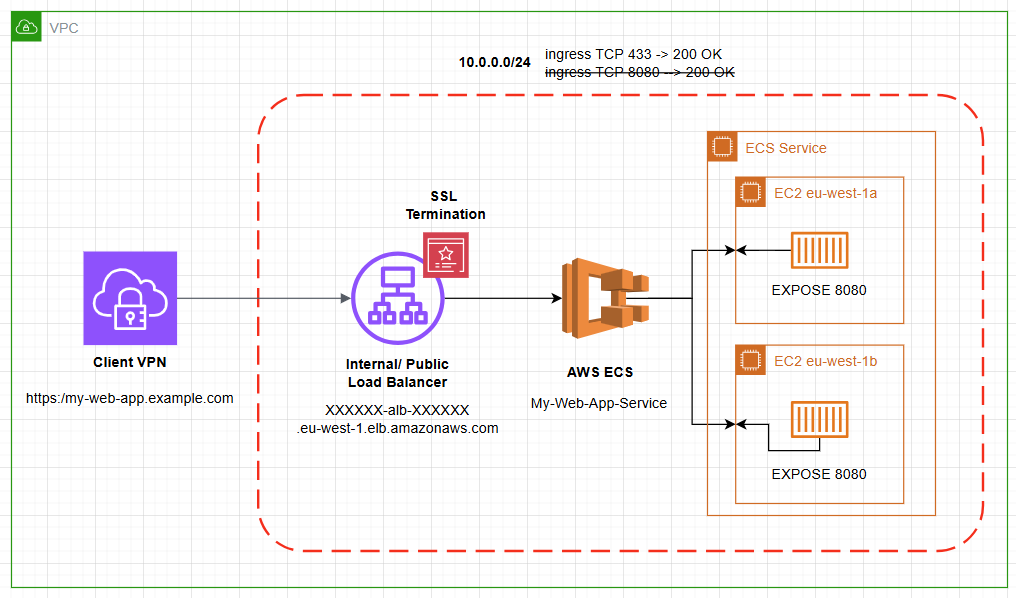
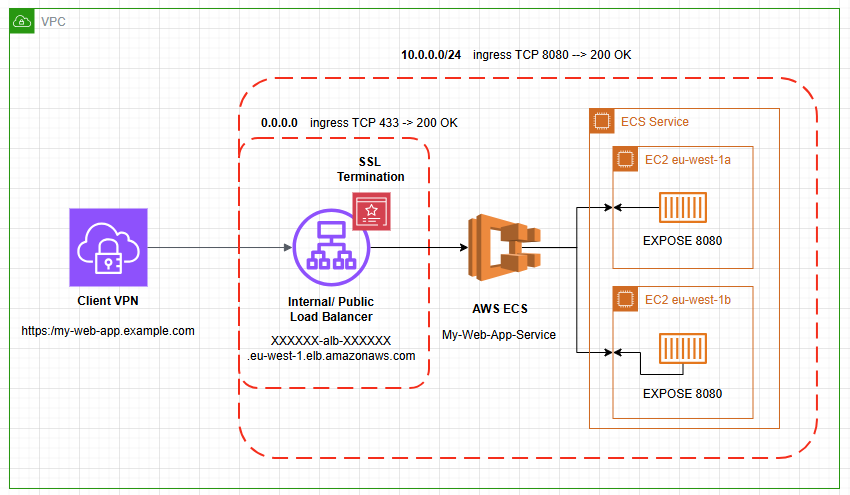
update diagram & READMEs

diff --git a/README.md b/README.md
@@ -15,6 +15,7 @@ The module supports both public facing and private facing deployments of the ALB
 - **CI/CD Integration**: Integrate with GitHub Actions to automate the deployment process, including building Docker images and deploying them to different environments.
 - **AWS Services**: Leverage AWS services like ECS, EC2, ECR and ELB to host and manage your web application.
 - **Docker Support**: Build and deploy Docker images for your web application.
+- **Health Checker**: ECS does a basic health check on /health endpoint to determine if the containers are actually running.
 
 ## Diagram
 

diff --git a/examples/dockerized-web-app-public-deployment/README.md b/examples/dockerized-web-app-public-deployment/README.md
@@ -23,3 +23,5 @@ module "dockerized-web-app" {
   docker_image_tag    = "latest"
 }
 ```
+
+Your ALB will be deployed in a public subnet, but you will still have to add a security group rule that allows incoming connections coming from ranges outside of the internal CIDR-block.
